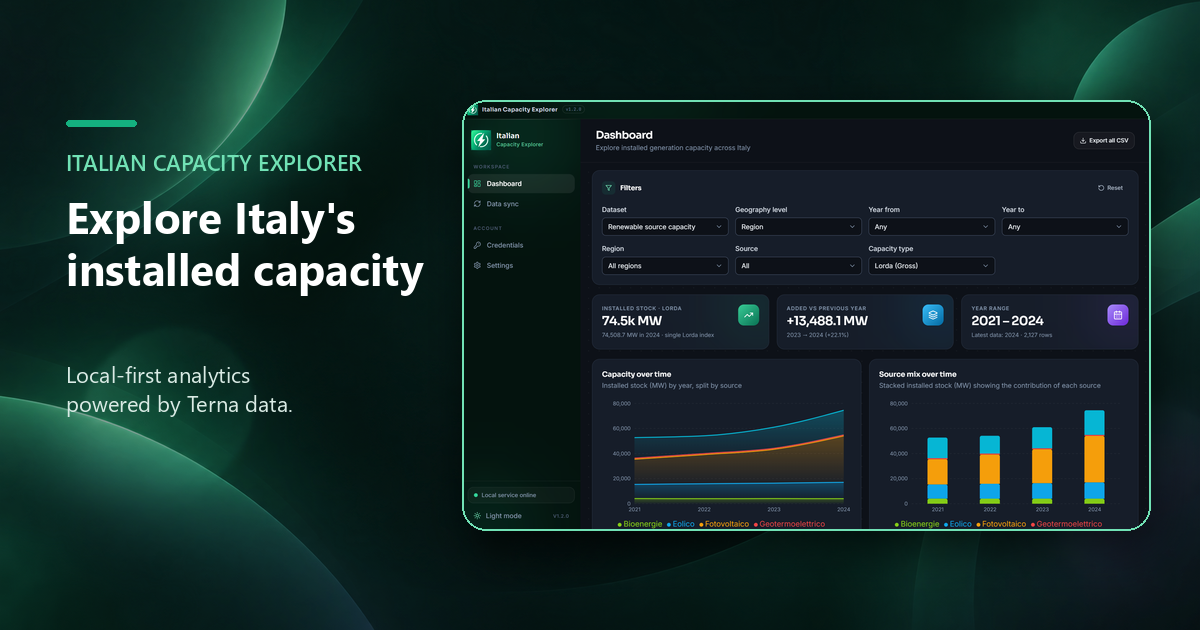
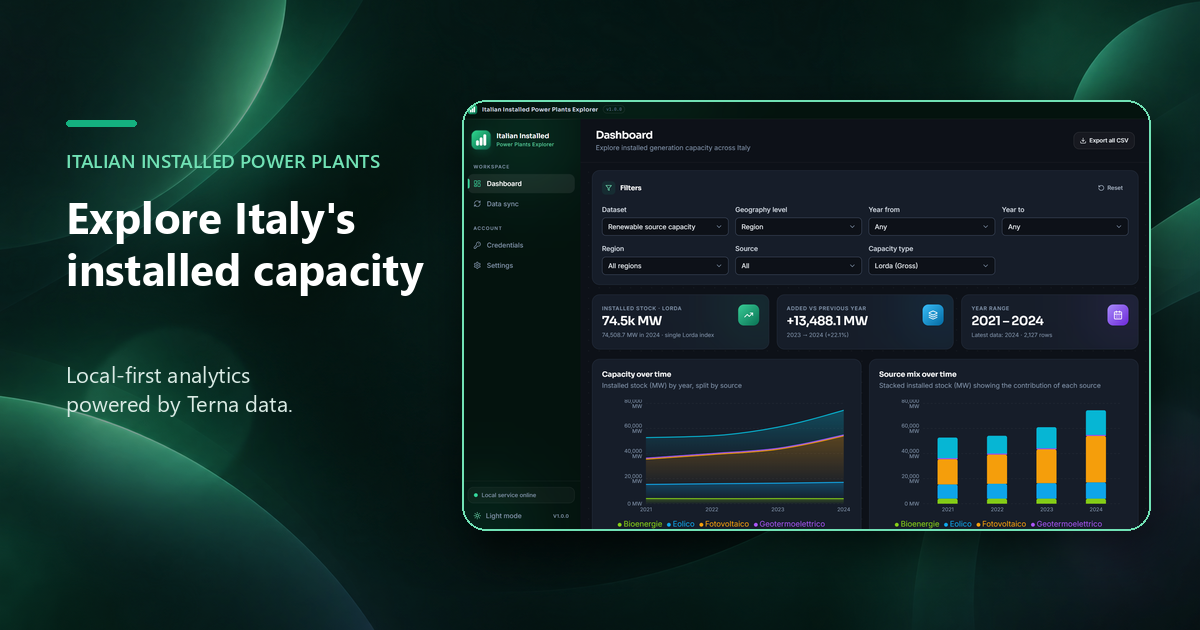
Show gigawatts in the KPI card and one colour for area charts
The installed-stock KPI printed 74.5k MW: compactMw now switches to GW above 1000 MW (74.51 GW, with the exact MW value kept in the hint). The capacity-by-region and capacity-by-province charts used a different colour per bar, which suggested a meaning the colours do not have: colours encode plant types, so those charts now use a single brand colour.

diff --git a/src/lib/utils.ts b/src/lib/utils.ts
@@ -25,13 +25,19 @@ export function formatNumber(value: number | null | undefined): string {
   return new Intl.NumberFormat("en-US").format(value);
 }
 
+/** Valore compatto con l'unità leggibile: 74.508,7 MW → "74.51 GW". */
 export function compactMw(value: number | null | undefined): string {
   if (value === null || value === undefined || Number.isNaN(value)) return "—";
-  const abs = Math.abs(value);
-  if (abs >= 1_000_000) return `${(value / 1_000_000).toFixed(1)}M MW`;
-  if (abs >= 1_000) return `${(value / 1_000).toFixed(1)}k MW`;
+  if (Math.abs(value) >= 1_000) return `${formatGw(value / 1_000)} GW`;
   return `${formatMw(value)} MW`;
 }
+
+/**
+ * Colore per grafici in cui la categoria non è un tipo di impianto (regioni,
+ * province): i colori restano riservati alle fonti, così non suggeriscono
+ * differenze che non esistono.
+ */
+export const SINGLE_SERIES_COLOR = "#14b07f";
 
 export const SOURCE_COLORS: Record<string, string> = {
   Fotovoltaico: "#f59e0b",

diff --git a/src/components/charts/CapacityByRegionChart.tsx b/src/components/charts/CapacityByRegionChart.tsx
@@ -10,7 +10,7 @@ import {
   YAxis,
 } from "recharts";
 import { api } from "@/api/client";
-import { colorFor, formatGw, formatMw } from "@/lib/utils";
+import { SINGLE_SERIES_COLOR, formatGw, formatMw } from "@/lib/utils";
 import type { GroupBy, RecordFilters } from "@/types";
 import { LoadingOverlay } from "@/components/ui/Spinner";
 import { ErrorState } from "@/components/ui/EmptyState";
@@ -84,7 +84,7 @@ export function CapacityByRegionChart({
             />
             <Bar dataKey={valueKey} name={isGw ? "Installed capacity GW" : "Efficient power MW"} radius={[0, 8, 8, 0]} maxBarSize={18}>
               {top.map((r, i) => (
-                <Cell key={r[groupBy] ?? i} fill={colorFor(String(r[groupBy] ?? ""), i, filters.dataset)} />
+                <Cell key={r[groupBy] ?? i} fill={SINGLE_SERIES_COLOR} />
               ))}
             </Bar>
           </BarChart>

diff --git a/static/index.html b/static/index.html
@@ -19,7 +19,7 @@
     <meta name="twitter:description" content="Explore Italy's installed generation capacity locally, with Terna data." />
     <meta name="twitter:image" content="/og-image.png" />
     <title>Italian Installed Power Plants Explorer</title>
-    <script type="module" crossorigin src="/assets/index-B0g5nmNv.js"></script>
+    <script type="module" crossorigin src="/assets/index-BXP3dStF.js"></script>
     <link rel="modulepreload" crossorigin href="/assets/vendor-react-CTF3l6S7.js">
     <link rel="modulepreload" crossorigin href="/assets/vendor-query-BX4wGWa-.js">
     <link rel="modulepreload" crossorigin href="/assets/vendor-charts-Bp6O3Z6U.js">
